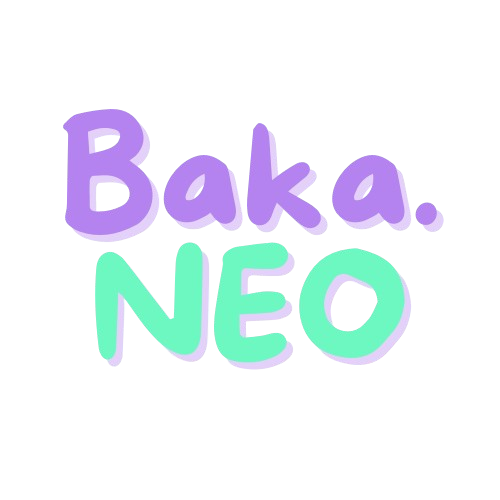
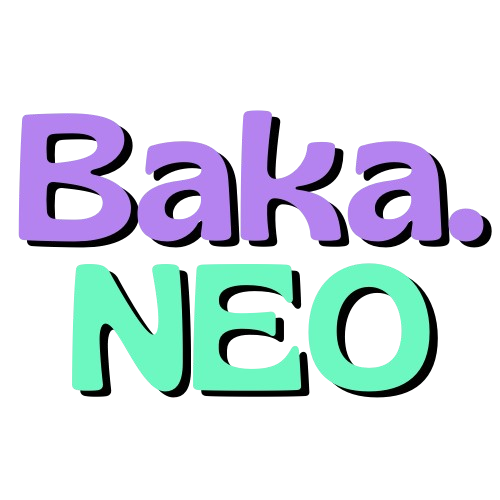
v 1.1.1

Changed region(s): [[0.03, 0.21, 0.99, 0.81]]

diff --git a/README.md b/README.md
@@ -1,7 +1,5 @@
 # BakaNeo
 
-_image soon..._
-
-[My GitHub](https://github.com/coelhomarcus)
+![Image](https://github.com/user-attachments/assets/59e55e84-5614-405a-91e6-c1c4428d1205)
 
 **Enjoy!**

diff --git a/CHANGELOG.md b/CHANGELOG.md
@@ -3,3 +3,5 @@
 - [1.0.0] first commit :P
 
 - [1.1.0] add icon, readme, changelog, etc...
+
+- [1.1.1] update icon, readme.
